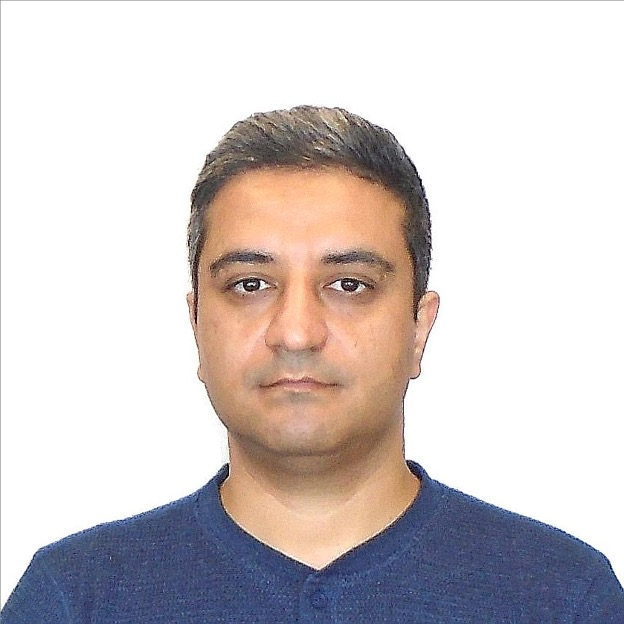
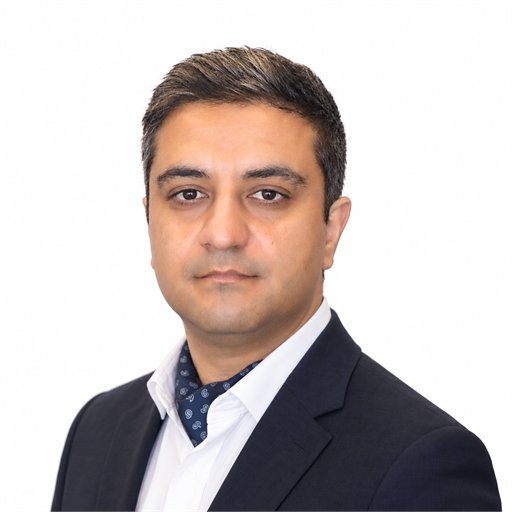
Replace the header portrait
New headshot, resized to 512x512 and recompressed at quality 86: 26 KB,
down from 69 KB, at better resolution than before. Intrinsic width and
height attributes updated to match.

diff --git a/index.html b/index.html
@@ -795,7 +795,7 @@
 
   <header id="top" class="site-header wrap">
     <div class="profile">
-      <img src="mash.jpg" width="150" height="150" alt="Portrait of Mas Hakimi Heris">
+      <img src="mash.jpg" width="512" height="512" alt="Portrait of Mas Hakimi Heris">
       <div class="profile-info">
         <h1>Masoud (Mas) Hakimi Heris</h1>
         <p class="role">Ph.D. Candidate, Electrical Engineering — expected May 2027</p>
